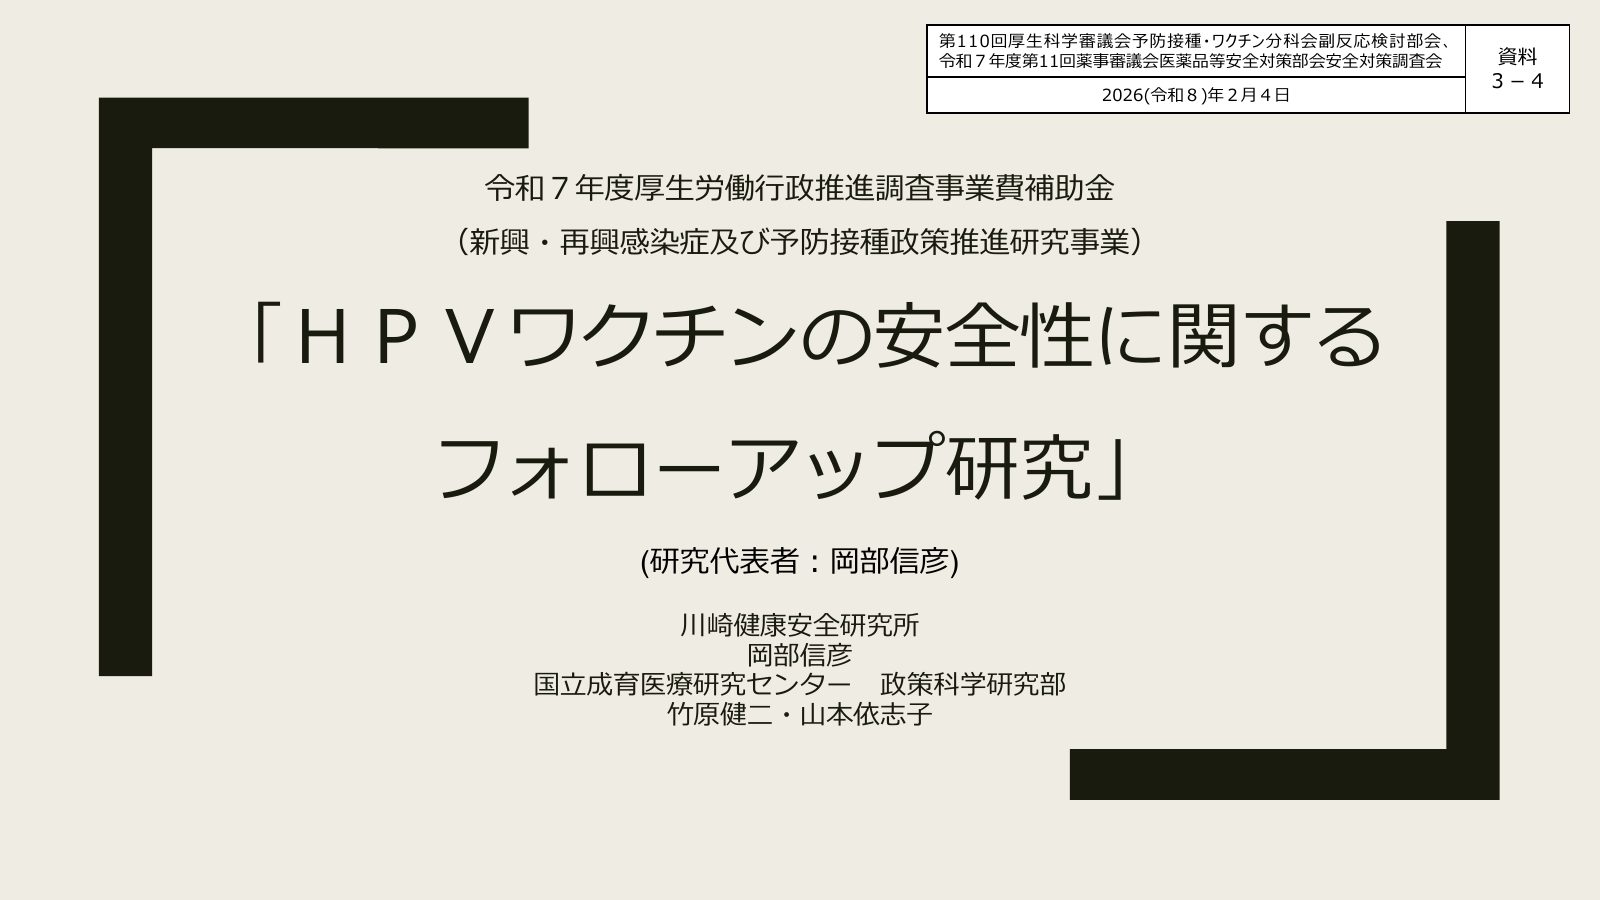
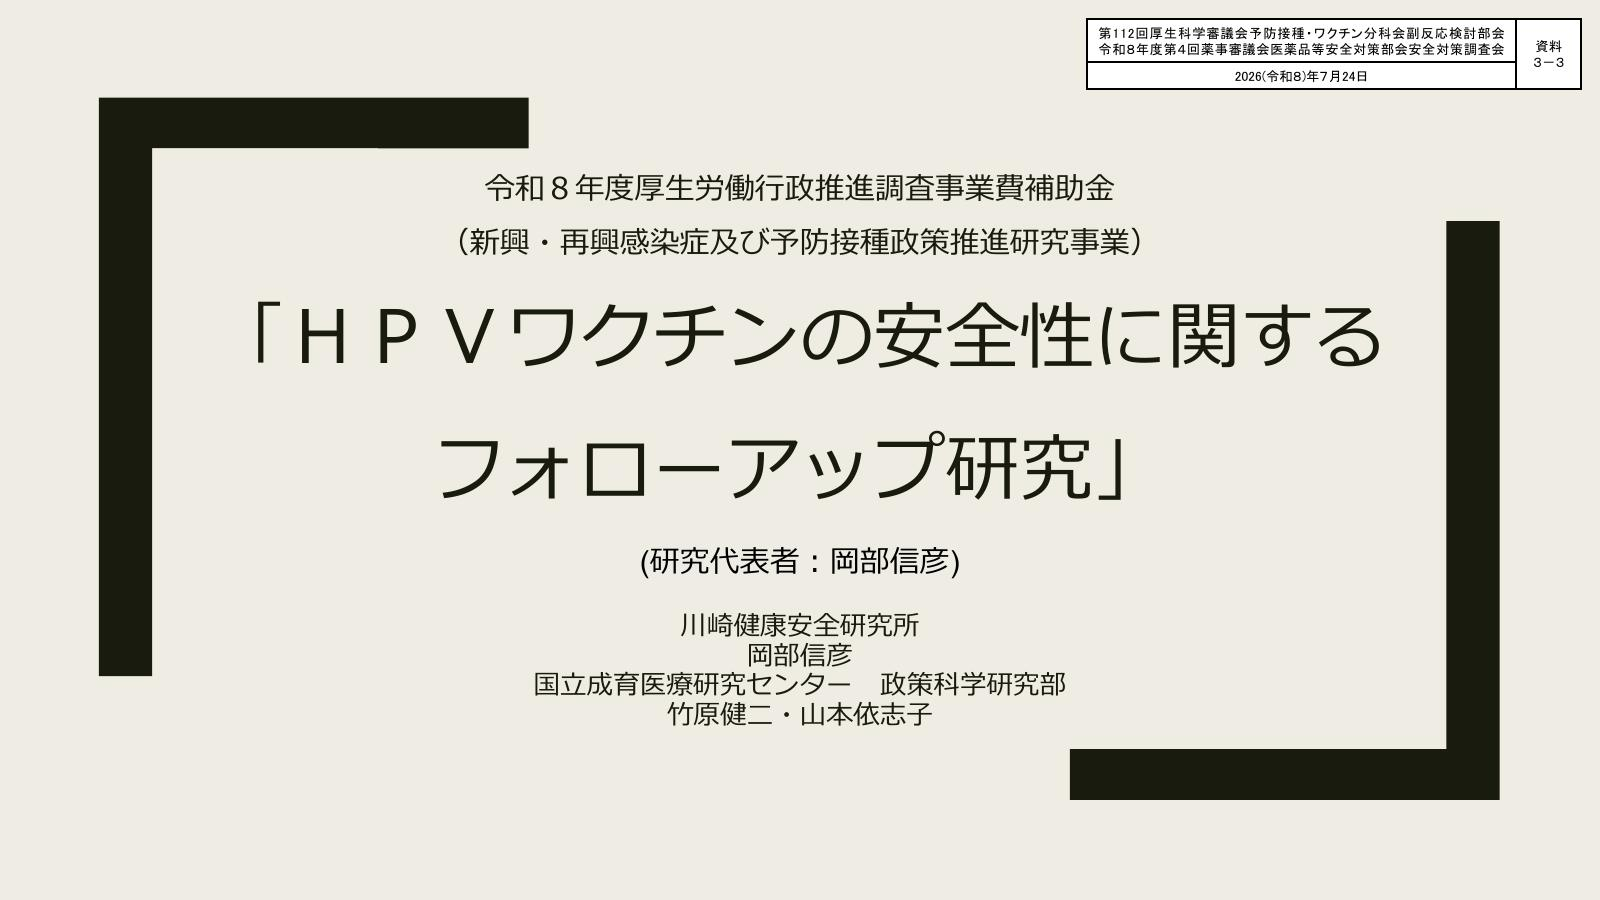
HPVフォローアップ資料を2026年7月版へ更新

Changed region(s): [[0.5625, 0.0, 1.0, 0.1244], [0.3438, 0.1867, 0.375, 0.2178]]

diff --git a/web/hpvvhvt.rb b/web/hpvvhvt.rb
@@ -137,7 +137,7 @@ __MENU__
 <section id="sourceSection">
   <h2 id="sourceHeading"></h2>
   <p><span id="sourceTitle"></span><br>
-  <a target="_blank" rel="noopener" href="https://www.mhlw.go.jp/content/11120000/001650654.pdf">https://www.mhlw.go.jp/content/11120000/001650654.pdf</a></p>
+  <a target="_blank" rel="noopener" href="https://www.mhlw.go.jp/content/11120000/001727329.pdf">https://www.mhlw.go.jp/content/11120000/001727329.pdf</a></p>
   <div id="sourcePages">
     <img class="source-page" src="hpvvhvt-src/page-1.jpg" alt="">
     <img class="source-page" src="hpvvhvt-src/page-2.jpg" alt="">
@@ -147,6 +147,7 @@ __MENU__
     <img class="source-page" src="hpvvhvt-src/page-6.jpg" alt="">
     <img class="source-page" src="hpvvhvt-src/page-7.jpg" alt="">
     <img class="source-page" src="hpvvhvt-src/page-8.jpg" alt="">
+    <img class="source-page" src="hpvvhvt-src/page-9.jpg" alt="">
   </div>
 </section>
 </div>
@@ -167,7 +168,7 @@ var I18N = {
     acknowledgement:'※ 隈本邦彦先生（元NHK記者・江戸川大学名誉教授）の講演資料によりデータの存在を知り、本グラフの着想を得ました。深く感謝いたします。',
     scatterPoints:'月ごとの値', regressionLine:'回帰直線',
     sourceHeading:'出典',
-    sourceTitle:'厚生労働省「HPVワクチンの安全性に関するフォローアップ研究」（第110回副反応検討部会 資料3-4、2026年2月4日）',
+    sourceTitle:'厚生労働省「HPVワクチンの安全性に関するフォローアップ研究」（第112回副反応検討部会 資料3-3、2026年7月24日）',
     sourcePage:function(n){return '出典資料 '+n+'ページ';},
     qrAlt:'このページのQRコード',
     month:function(key){return key;}
@@ -184,7 +185,7 @@ var I18N = {
     acknowledgement:'* I learned of these data and conceived this graph through lecture materials by Professor Kunihiko Kumamoto (former NHK reporter and Professor Emeritus at Edogawa University). I am deeply grateful.',
     scatterPoints:'Monthly values', regressionLine:'Regression line',
     sourceHeading:'Source',
-    sourceTitle:'MHLW, Follow-up Study on HPV Vaccine Safety (110th Adverse Reaction Review Committee, Document 3-4, February 4, 2026)',
+    sourceTitle:'MHLW, Follow-up Study on HPV Vaccine Safety (112th Adverse Reaction Review Committee, Document 3-3, July 24, 2026)',
     sourcePage:function(n){return 'Source document, page '+n;},
     qrAlt:'QR code for this page',
     month:function(key){return key;}
@@ -205,11 +206,12 @@ var monthlyRaw = [
   [2023,7,143566,10],[2023,8,210165,12],[2023,9,120944,21],[2023,10,124802,5],
   [2023,11,120015,18],[2023,12,108001,19],[2024,1,109953,9],[2024,2,114705,9],
   [2024,3,216544,9],[2024,4,175445,12],[2024,5,123566,12],[2024,6,176133,25],
-  [2024,7,280804,21],[2024,8,571426,25],[2024,9,550013,43],[2024,10,552795,61],
-  [2024,11,597151,56],[2024,12,550555,31],[2025,1,25010,25],[2025,2,15038,12],
+  [2024,7,280804,21],[2024,8,571426,25],[2024,9,550013,45],[2024,10,552795,60],
+  [2024,11,597151,56],[2024,12,550555,31],[2025,1,25010,26],[2025,2,15038,12],
   [2025,3,640306,14],[2025,4,70127,33],[2025,5,33482,23],[2025,6,37612,12],
   [2025,7,53460,13],[2025,8,104073,11],[2025,9,103787,15],[2025,10,126839,15],
-  [2025,11,65652,6]
+  [2025,11,65652,7],[2025,12,75293,7],[2026,1,200679,2],[2026,2,92927,5],
+  [2026,3,9050,9],[2026,4,70127,7],[2026,5,33482,7]
 ];
 
 function monthIndex(year,month){ return year*12+month-1; }
@@ -271,7 +273,7 @@ function chartData(data){
   ];
 }
 function xScale(showTicks){
-  return {type:'linear',min:monthIndex(2022,3),max:monthIndex(2025,11),offset:false,ticks:{display:showTicks,stepSize:4,maxRotation:0,font:{size:16},callback:function(value){return Number.isInteger(value)?I18N[CURRENT_LANG].month(monthKey(value)):'';}},grid:{display:false}};
+  return {type:'linear',min:monthIndex(2022,3),max:monthIndex(2026,5),offset:false,ticks:{display:showTicks,stepSize:4,maxRotation:0,font:{size:16},callback:function(value){return Number.isInteger(value)?I18N[CURRENT_LANG].month(monthKey(value)):'';}},grid:{display:false}};
 }
 function tooltipOptions(){
   return {titleFont:{size:17},bodyFont:{size:17},callbacks:{title:function(items){
